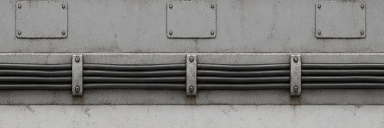
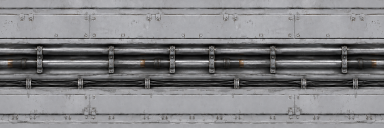
Put the kit's pipe run on the bench and its light strip on the soffit
new-hallway-materials ships middle and end pieces for pipe runs and light
strips - the first art here that can terminate a run rather than tile it
forever. Two of the middles are wired.

pipes-middle is the bench. At 3.62:1 it already draws its runs lengthwise,
which is what a bench carrying services along a corridor is; the crop it
replaces was a square sheet cut down to a band, so its runs were an accident of
where the crop landed.

lightstrip-middle is the soffit, transposed for the same reason frame-rib is:
the source draws its channel down its own y and on a chamfer u is along the
corridor, so mapped straight through the strip is a rung across the corridor
once per cell rather than a run down it.

And the soffit's channel emits while the rest of the strip does not - per band,
scaled by the sector. This is the one tile in the level whose bright pixels
genuinely are a light, a white channel between mid-grey ribs, so keyed emission
can find it where it cannot on wall-main, which is pale everywhere. Without it
the channel sat at the soffit's gain of 0.34 and read as a paler stripe on a
dark band rather than as the reference's lit run.

Claude-Session: https://claude.ai/code/session_01SHbaVT4kAdovLg3XsohGQ1

diff --git a/src/game/fps/mesh.ts b/src/game/fps/mesh.ts
@@ -187,6 +187,12 @@ const STRIP_SEG1 = 8;
  * brightened the walls and left every light strip in the level at its dead-ship
  * value. The rating is geometry; the wattage is lighting.
  */
+/**
+ * How hard the soffit's light channel burns, scaled by the sector — a fitting
+ * on a dead ship is dead, and this is what comes back when a breaker is thrown.
+ */
+const STRIP_EMIT = 1.6;
+
 const STRIP_MAT = "strip";
 const STRIP_RATING = 1;
 const SPINE_RATING = 0.55;
@@ -882,7 +888,22 @@ export function buildLevelMesh(lvl: FpsLevel): LevelMesh {
       const b = get(tile);
       const rep = seg.band === 1 ? faceRepeat : 1;
       const gain = dressGain[seg.band] * seg.mul;
-      const shade: Shade = { light: sh.light, gain, emit: sh.emit };
+      /*
+       * **The upper chamfer's light channel emits; the rest of the strip does
+       * not.** `chamfer-main.png` is the kit's `lightstrip-middle` — a blazing
+       * white channel between mid-grey bolted ribs — and it is the one tile in
+       * the level whose bright pixels genuinely *are* a light, so the shader's
+       * keyed emission can find it where it cannot on `wall-main` (pale
+       * everywhere, so a threshold low enough to find a fitting lights the whole
+       * wall). Without this the channel sits at the soffit's own gain of 0.34
+       * and is simply a slightly paler stripe on a dark band.
+       *
+       * It is per *band* rather than per wall because a `WallDress`'s `emit`
+       * applies to the whole profile, and the bench and the vertical face have
+       * nothing on them that should burn.
+       */
+      const emit = seg.band === 2 ? sh.emit + STRIP_EMIT * sh.light : sh.emit;
+      const shade: Shade = { light: sh.light, gain, emit };
       const ao0 = SEG_AO0[i] * aoScale;
       const ao1 = SEG_AO1[i] * aoScale;
       /*

diff --git a/CLAUDE.md b/CLAUDE.md
@@ -473,6 +473,32 @@ with them each surface's `TILE_MAT` is its own rather than a borrowed one.
   convex viewpoint). Measure before retuning `STRIP_SECTOR`; a light fitting
   looks blown next to a dead corridor whether or not it is.
 
+**The bench and the soffit come from a modular kit —
+`art-reference/new-hallway-materials/`.** It ships middle *and end* pieces for
+pipe runs and light strips, which is the first art here that can terminate a run
+rather than tile it forever. Two of them are in:
+
+- **`pipes-middle.png` is the bench.** At 3.62:1 it already draws its pipe and
+  cable runs lengthwise, which is what a bench carrying services along a
+  corridor is; the `bench-conduit` crop it replaces was a square sheet cut down
+  to a band, so its runs were an accident of where the crop landed.
+- **`lightstrip-middle.png` is the soffit, transposed**, for the same reason
+  `frame-rib` is: the source draws its channel down its own y and on a chamfer
+  `u` is along the corridor, so mapped straight through the lit strip is a rung
+  across the corridor once per cell rather than a run down it.
+- **The soffit's channel emits and the rest of the strip does not** (`STRIP_EMIT`
+  in `mesh.ts`, per *band*, scaled by the sector). This is the one tile in the
+  level whose bright pixels genuinely are a light — a white channel between
+  mid-grey ribs — so the shader's keyed emission can find it where it cannot on
+  `wall-main`, which is pale everywhere. Without it the channel sat at the
+  soffit's own gain of 0.34 and read as a slightly paler stripe on a dark band.
+
+Still unused, and the reason the kit is worth more than four tiles: `*-end.png`
+for both runs, `floor.png` (the reference's grating runner, better than
+`deck-runner`), `ceiling.png`, `edge.png` and the `pipes2` variant. Wiring the
+ends means `wallStrip` choosing a tile per cell from whether the run terminates
+at a bay, which the cell loop already knows (`ring[ci]`).
+
 **Texel stretch is measured, not judged by eye — `scratch/stretch.mjs`.** It
 solves the uv→world Jacobian per triangle and reports the area-weighted median
 and p90 of its two singular values' ratio, per tile. Reading it: the number is
